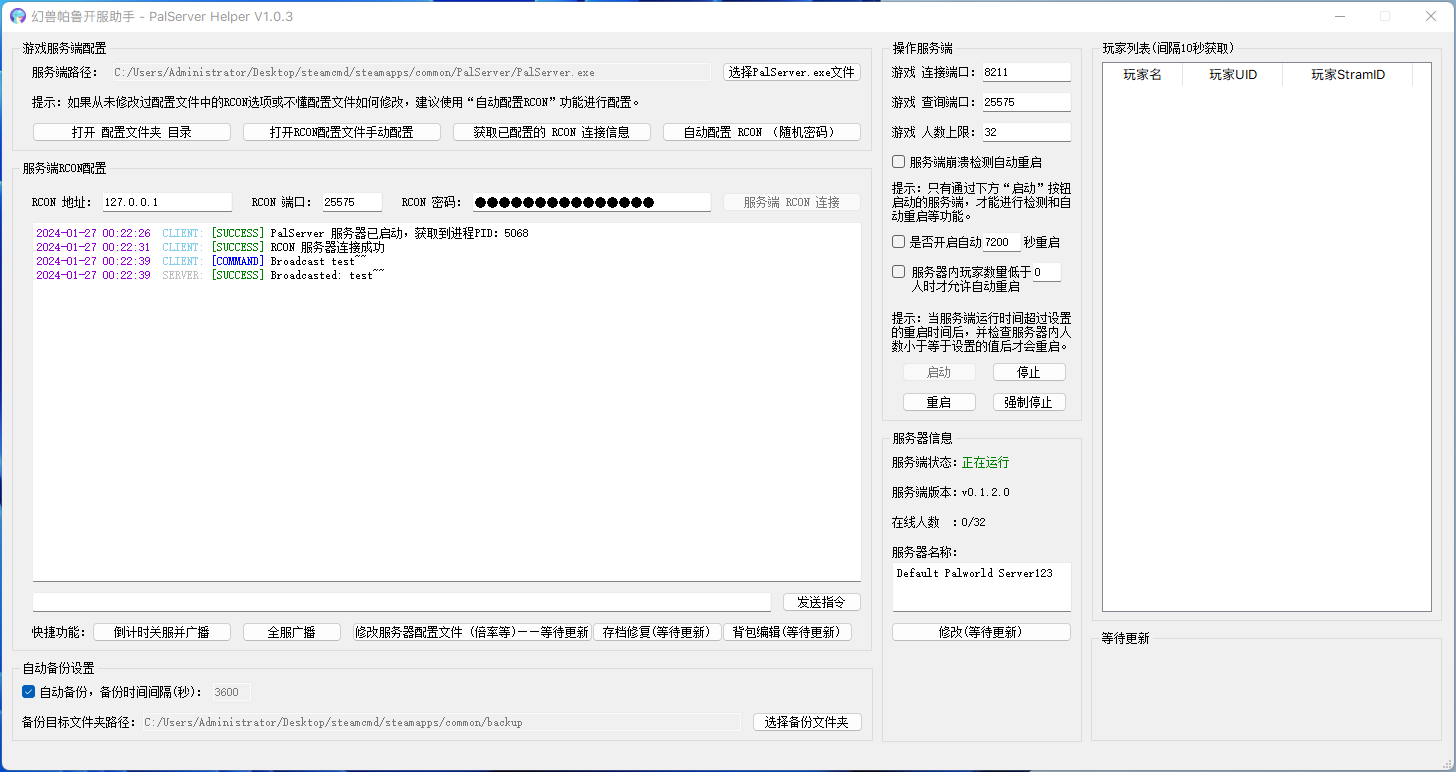
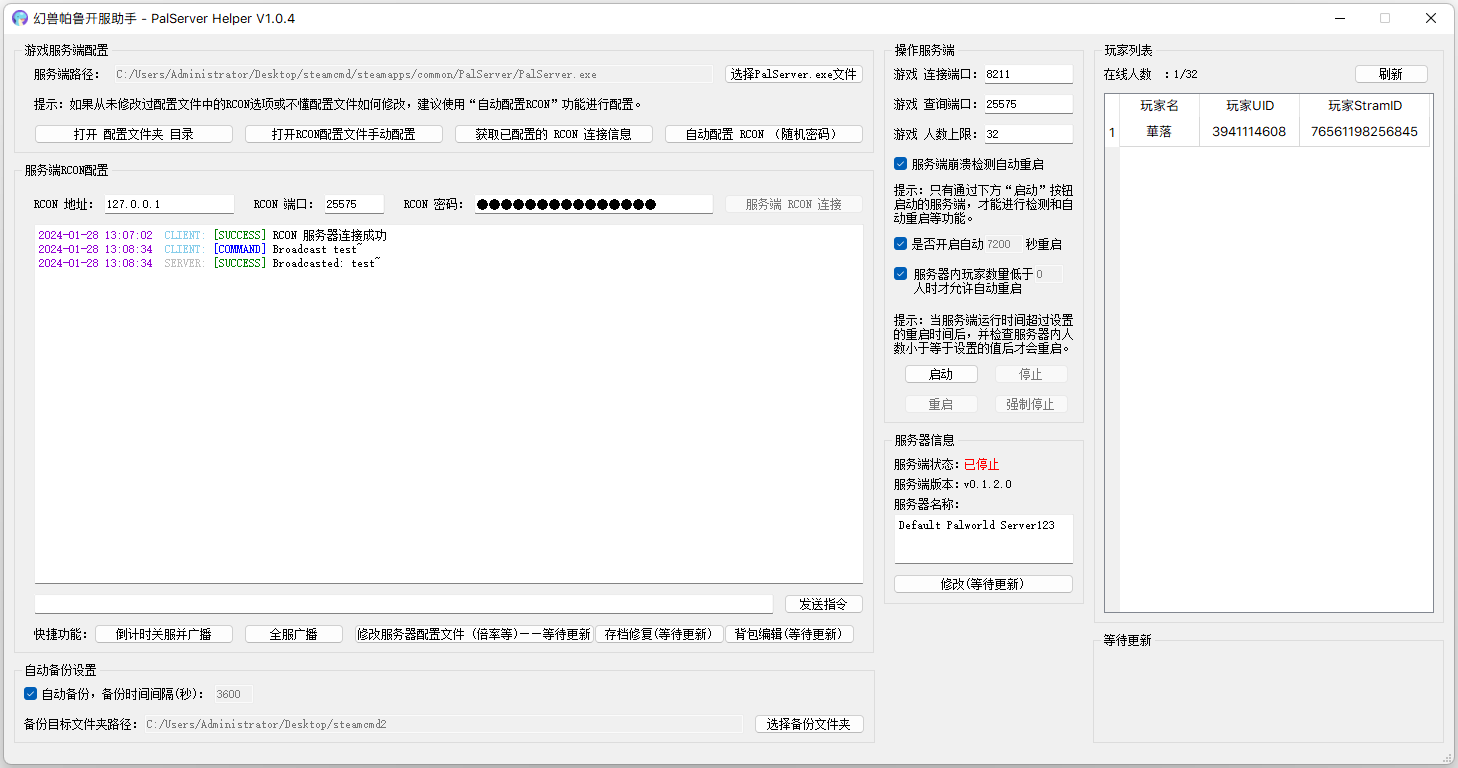
V1.0.5 修改玩家列表获取为手动获取并添加获取错误判断

diff --git a/activity/main_activity.py b/activity/main_activity.py
@@ -37,7 +37,7 @@ class Window(QMainWindow):
             self.setWindowTitle("幻兽帕鲁开服助手 - PalServer Helper " + setting.version + " - " + setting.publicity_ad)
         else:
             self.setWindowTitle("幻兽帕鲁开服助手 - PalServer Helper " + setting.version)
-        self.setFixedSize(1452, 738)
+        self.setFixedSize(1450, 730)
         self.setWindowIcon(QIcon(os.path.join(self.module_path, r"../resource/favicon.ico")))
         self.table_widget_player_list.setColumnWidth(0, 80)
         self.table_widget_player_list.setColumnWidth(1, 100)
@@ -342,94 +342,6 @@ class Window(QMainWindow):
         server_name = rcon_result[rcon_result.index("]")+2:]
         self.text_edit_server_name.setText(server_name)
 
-        self.get_server_info_qtimer = QTimer(self)
-        self.get_server_info_qtimer.timeout.connect(self.get_server_info)
-        self.get_server_info_qtimer.start(10000)
-        self.get_server_info()
-
-    def get_server_info(self):
-        self.table_widget_player_list.clearContents()
-        self.table_widget_player_list.setRowCount(0)
-
-        if self.rcon_connect_flag is False:
-            self.get_server_info_qtimer.stop()
-            return
-
-        self.player_list_menu = QMenu(self)
-        kick_action = QAction('踢出该玩家', self)
-        kick_action.triggered.connect(self.kick_player)
-        ban_action = QAction('封禁该玩家', self)
-        ban_action.triggered.connect(self.ban_player)
-        copy_uid_action = QAction('复制玩家UID', self)
-        copy_uid_action.triggered.connect(self.copy_uid)
-        copy_steamid_action = QAction('复制玩家StramID', self)
-        copy_steamid_action.triggered.connect(self.copy_steamid)
-        self.player_list_menu.addAction(kick_action)
-        self.player_list_menu.addAction(ban_action)
-        self.player_list_menu.addAction(copy_uid_action)
-        self.player_list_menu.addAction(copy_steamid_action)
-        self.table_widget_player_list.setContextMenuPolicy(Qt.CustomContextMenu)
-        self.table_widget_player_list.customContextMenuRequested.connect(self.show_player_list_menu)
-
-        rcon_result = self.pal_rcon.command("showplayers")
-        player_list = rcon_result.split("\n")[1:]
-        player_id = 0
-        self.player_list = []
-        for player in player_list:
-            if player == "":
-                continue
-            player_info = player.split(",")
-            self.player_list.append(player_info)
-            self.table_widget_player_list.insertRow(player_id)
-            item = QTableWidgetItem(player_info[0])
-            item.setTextAlignment(Qt.AlignHCenter | Qt.AlignVCenter)
-            self.table_widget_player_list.setItem(player_id, 0, item)
-            item = QTableWidgetItem(player_info[1])
-            item.setTextAlignment(Qt.AlignHCenter | Qt.AlignVCenter)
-            self.table_widget_player_list.setItem(player_id, 1, item)
-            item = QTableWidgetItem(player_info[2])
-            item.setTextAlignment(Qt.AlignHCenter | Qt.AlignVCenter)
-            self.table_widget_player_list.setItem(player_id, 2, item)
-            player_id += 1
-
-        self.label_online_player.setText(str(player_id) + "/" + str(self.config["game_player_limit"]))
-
-    def kick_player(self):
-        selected_items = self.table_widget_player_list.selectedItems()
-        if selected_items:
-            selected_row = selected_items[0].row()
-            player_uid = self.player_list[selected_row][1]
-            command = "KickPlayer " + player_uid
-            self.text_browser_rcon_server_notice("client_command", command)
-            rcon_result = self.pal_rcon.command(command)
-            self.text_browser_rcon_server_notice("server_success", rcon_result[:-1])
-        self.get_server_info()
-
-    def ban_player(self):
-        selected_items = self.table_widget_player_list.selectedItems()
-        if selected_items:
-            selected_row = selected_items[0].row()
-            player_uid = self.player_list[selected_row][1]
-            command = "BanPlayer " + player_uid
-            self.text_browser_rcon_server_notice("client_command", command)
-            rcon_result = self.pal_rcon.command(command)
-            self.text_browser_rcon_server_notice("server_success", rcon_result[:-1])
-        self.get_server_info()
-
-    def copy_uid(self):
-        selected_items = self.table_widget_player_list.selectedItems()
-        if selected_items:
-            selected_row = selected_items[0].row()
-            player_uid = self.player_list[selected_row][1]
-            pyperclip.copy(player_uid)
-
-    def copy_steamid(self):
-        selected_items = self.table_widget_player_list.selectedItems()
-        if selected_items:
-            selected_row = selected_items[0].row()
-            player_steamid = self.player_list[selected_row][2]
-            pyperclip.copy(player_steamid)
-
     def button_game_start_click(self):
         if "palserver_path" not in self.config:
             self.text_browser_rcon_server_notice("client_error", "请先选择PalServer.exe服务端文件！")
@@ -624,3 +536,87 @@ class Window(QMainWindow):
             self.check_box_auto_backup.setEnabled(True)
             self.line_edit_auto_backup_time_limit.setEnabled(True)
 
+    def button_refresh_player_list_click(self):
+        if self.rcon_connect_flag is False:
+            self.text_browser_rcon_server_notice("client_error", "请先连接 RCON ！")
+            return
+
+        self.table_widget_player_list.clearContents()
+        self.table_widget_player_list.setRowCount(0)
+
+        self.player_list_menu = QMenu(self)
+        kick_action = QAction('踢出该玩家', self)
+        kick_action.triggered.connect(self.kick_player)
+        ban_action = QAction('封禁该玩家', self)
+        ban_action.triggered.connect(self.ban_player)
+        copy_uid_action = QAction('复制玩家UID', self)
+        copy_uid_action.triggered.connect(self.copy_uid)
+        copy_steamid_action = QAction('复制玩家StramID', self)
+        copy_steamid_action.triggered.connect(self.copy_steamid)
+        self.player_list_menu.addAction(kick_action)
+        self.player_list_menu.addAction(ban_action)
+        self.player_list_menu.addAction(copy_uid_action)
+        self.player_list_menu.addAction(copy_steamid_action)
+        self.table_widget_player_list.setContextMenuPolicy(Qt.CustomContextMenu)
+        self.table_widget_player_list.customContextMenuRequested.connect(self.show_player_list_menu)
+
+        rcon_result = self.pal_rcon.command("showplayers")
+        player_list = rcon_result.split("\n")[1:]
+        player_id = 0
+        self.player_list = []
+        for player in player_list:
+            if player == "":
+                continue
+            player_info = player.split(",")
+            if len(player_info) < 3:
+                continue
+            self.player_list.append(player_info)
+            self.table_widget_player_list.insertRow(player_id)
+            item = QTableWidgetItem(player_info[0])
+            item.setTextAlignment(Qt.AlignHCenter | Qt.AlignVCenter)
+            self.table_widget_player_list.setItem(player_id, 0, item)
+            item = QTableWidgetItem(player_info[1])
+            item.setTextAlignment(Qt.AlignHCenter | Qt.AlignVCenter)
+            self.table_widget_player_list.setItem(player_id, 1, item)
+            item = QTableWidgetItem(player_info[2])
+            item.setTextAlignment(Qt.AlignHCenter | Qt.AlignVCenter)
+            self.table_widget_player_list.setItem(player_id, 2, item)
+            player_id += 1
+
+        self.label_online_player.setText(str(player_id) + "/" + str(self.config["game_player_limit"]))
+
+    def kick_player(self):
+        selected_items = self.table_widget_player_list.selectedItems()
+        if selected_items:
+            selected_row = selected_items[0].row()
+            player_uid = self.player_list[selected_row][1]
+            command = "KickPlayer " + player_uid
+            self.text_browser_rcon_server_notice("client_command", command)
+            rcon_result = self.pal_rcon.command(command)
+            self.text_browser_rcon_server_notice("server_success", rcon_result[:-1])
+        self.get_server_info()
+
+    def ban_player(self):
+        selected_items = self.table_widget_player_list.selectedItems()
+        if selected_items:
+            selected_row = selected_items[0].row()
+            player_uid = self.player_list[selected_row][1]
+            command = "BanPlayer " + player_uid
+            self.text_browser_rcon_server_notice("client_command", command)
+            rcon_result = self.pal_rcon.command(command)
+            self.text_browser_rcon_server_notice("server_success", rcon_result[:-1])
+        self.get_server_info()
+
+    def copy_uid(self):
+        selected_items = self.table_widget_player_list.selectedItems()
+        if selected_items:
+            selected_row = selected_items[0].row()
+            player_uid = self.player_list[selected_row][1]
+            pyperclip.copy(player_uid)
+
+    def copy_steamid(self):
+        selected_items = self.table_widget_player_list.selectedItems()
+        if selected_items:
+            selected_row = selected_items[0].row()
+            player_steamid = self.player_list[selected_row][2]
+            pyperclip.copy(player_steamid)

diff --git a/setting.py b/setting.py
@@ -1,3 +1,3 @@
-version = "V1.0.3"
+version = "V1.0.4"
 publicity_ad = None
 # publicity_ad = ""
